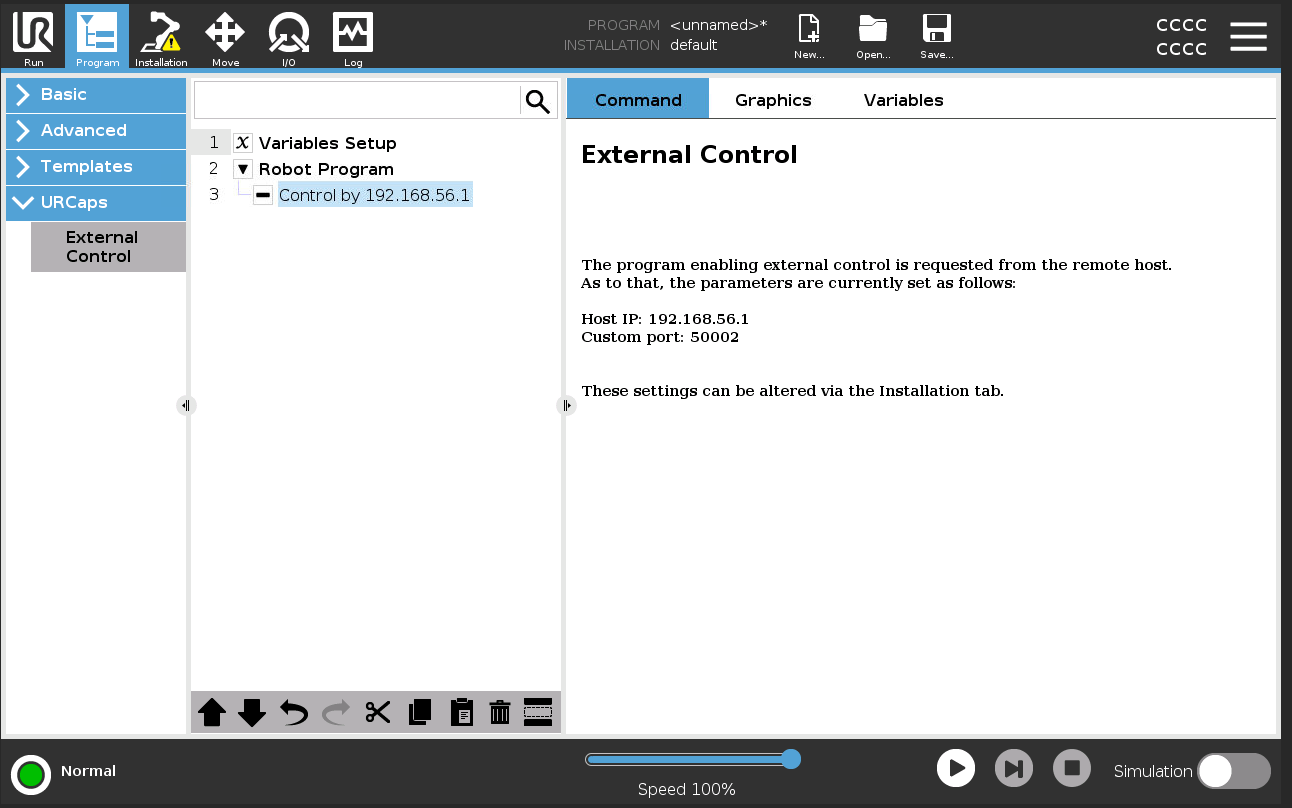
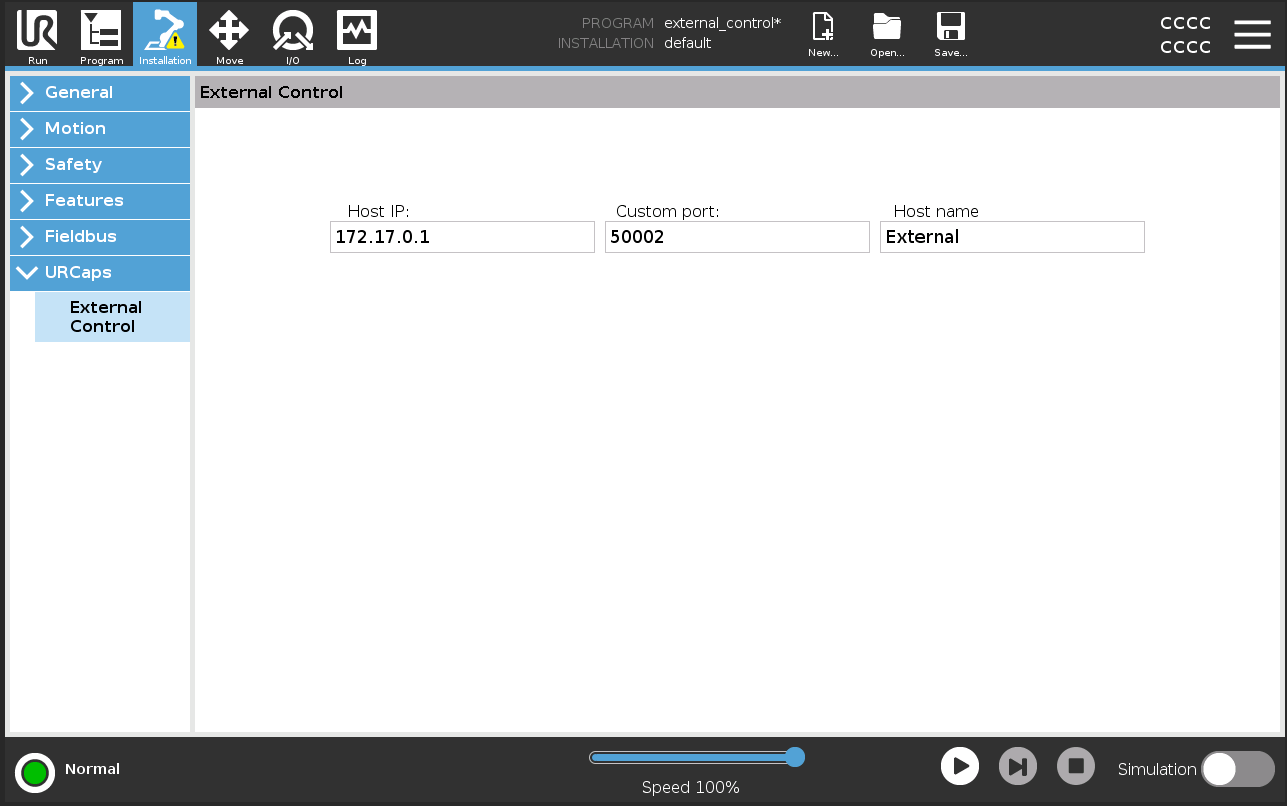
feat: pick place project

diff --git a/workspace/src/ur_screw_kinematics/src/jacobian.cpp b/workspace/src/ur_screw_kinematics/src/jacobian.cpp
@@ -85,15 +85,15 @@ Eigen::Matrix<double, 6, 6> jacobian_analytical(
     if (euler_convention == "ZYX" || euler_convention == "RPY") {
         // Extract ZYX Euler angles from rotation matrix
         double pitch = std::asin(-R(2, 0));
-        double roll, yaw;
+        double roll;
 
         if (std::abs(std::cos(pitch)) > EPSILON) {
             roll = std::atan2(R(2, 1), R(2, 2));
-            yaw = std::atan2(R(1, 0), R(0, 0));
+            // yaw = std::atan2(R(1, 0), R(0, 0));  // Not needed for E_inv
         } else {
             // Gimbal lock
             roll = 0;
-            yaw = std::atan2(-R(0, 1), R(1, 1));
+            // yaw = std::atan2(-R(0, 1), R(1, 1));  // Not needed for E_inv
         }
 
         double cr = std::cos(roll);
@@ -111,14 +111,14 @@ Eigen::Matrix<double, 6, 6> jacobian_analytical(
     } else if (euler_convention == "ZYZ") {
         // ZYZ Euler angles
         double theta = std::acos(R(2, 2));
-        double phi, psi;
+        double phi;
 
         if (std::abs(std::sin(theta)) > EPSILON) {
             phi = std::atan2(R(1, 2), R(0, 2));
-            psi = std::atan2(R(2, 1), -R(2, 0));
+            // psi = std::atan2(R(2, 1), -R(2, 0));  // Not needed for E_inv
         } else {
             phi = 0;
-            psi = std::atan2(R(1, 0), R(0, 0));
+            // psi = std::atan2(R(1, 0), R(0, 0));  // Not needed for E_inv
         }
 
         double st = std::sin(theta);

diff --git a/workspace/src/ur_screw_kinematics/src/robot_model.cpp b/workspace/src/ur_screw_kinematics/src/robot_model.cpp
@@ -436,9 +436,9 @@ RobotParameters createUR30Parameters() {
 // ============================================================================
 
 std::vector<ScrewAxis> dhToScrewAxes(
-    const std::vector<double>& a,
-    const std::vector<double>& d,
-    const std::vector<double>& alpha) {
+    const std::vector<double>& /* a */,
+    const std::vector<double>& /* d */,
+    const std::vector<double>& /* alpha */) {
 
     // This is a simplified conversion - proper implementation
     // would compute joint axes and points from DH chain
@@ -448,9 +448,9 @@ std::vector<ScrewAxis> dhToScrewAxes(
 }
 
 Matrix4d dhToHomeConfig(
-    const std::vector<double>& a,
-    const std::vector<double>& d,
-    const std::vector<double>& alpha) {
+    const std::vector<double>& /* a */,
+    const std::vector<double>& /* d */,
+    const std::vector<double>& /* alpha */) {
 
     // Compute FK at zero configuration using DH
     Matrix4d T = Matrix4d::Identity();

diff --git a/workspace/src/ur_kinematics_node/ur_kinematics_node/kinematics_server.py b/workspace/src/ur_kinematics_node/ur_kinematics_node/kinematics_server.py
@@ -227,9 +227,9 @@ class KinematicsServer(Node):
         msg.end_effector_pose = matrix_to_pose(T)
         msg.end_effector_twist = twist
 
-        msg.condition_number = self.kinematics.condition_number(J)
-        msg.manipulability = self.kinematics.manipulability(J)
-        msg.near_singularity = self.kinematics.is_near_singularity(J)
+        msg.condition_number = float(self.kinematics.condition_number(J))
+        msg.manipulability = float(self.kinematics.manipulability(J))
+        msg.near_singularity = bool(self.kinematics.is_near_singularity(J))
 
         self.state_pub.publish(msg)
 
